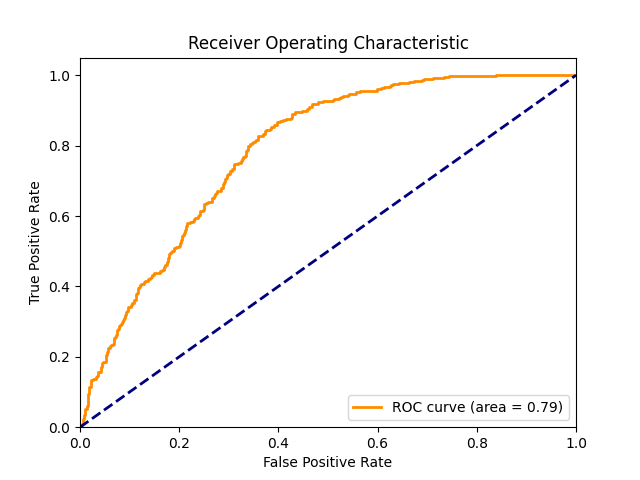
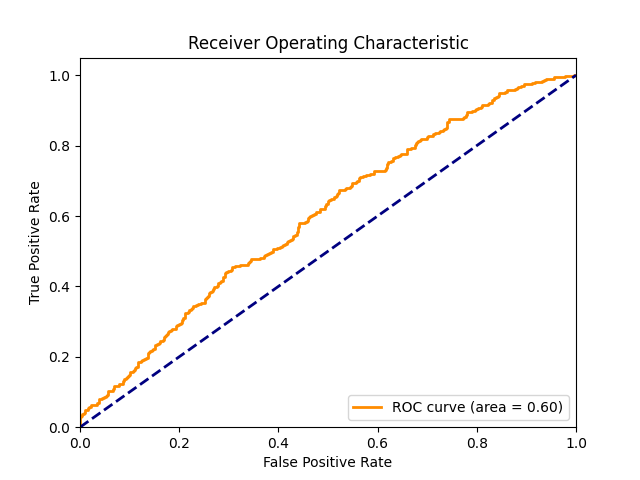
add upsampled siamese ext for testing

diff --git a/src/network.py b/src/network.py
@@ -172,10 +172,9 @@ class complexSiameseExt(nn.Module):
 
         return [output1_pool4, output2_pool4], [output1_pool5, output2_pool5], [output1_pool6, output2_pool6]
 
-class complexSiameseNoPool(nn.Module):
+class SiameseExtUpsampled(nn.Module):
     def __init__(self):
-        super(complexSiameseNoPool, self).__init__()
-        # Define the architecture for the Siamese network
+        super(SiameseExtUpsampled, self).__init__()
         self.conv1 = nn.Conv2d(1, 32, kernel_size=3, padding=1)        
         self.bn1 = nn.BatchNorm2d(32)
         
@@ -186,40 +185,60 @@ class complexSiameseNoPool(nn.Module):
         self.bn3 = nn.BatchNorm2d(128)
         
         self.conv4 = nn.Conv2d(128, 256, kernel_size=3, padding=1)
-        # Same output channels, just to refine the features later on
+        ## same output channels, just to refine the features later on
         self.conv5 = nn.Conv2d(256, 256, kernel_size=3, padding=1)
         self.bn4 = nn.BatchNorm2d(256)
         
         self.conv6 = nn.Conv2d(256, 512, kernel_size=3, padding=1)
         self.conv7 = nn.Conv2d(512, 512, kernel_size=3, padding=1)
+    
         self.bn5 = nn.BatchNorm2d(512)
+        
+        self.conv8 = nn.Conv2d(512, 1024, kernel_size=3, padding=1)
+        self.conv9 = nn.Conv2d(1024, 1024, kernel_size=3, padding=1)
+        self.bn6 = nn.BatchNorm2d(1024)
+        
+        # self.fc1 = nn.Linear(131072, 128)  # Adjust input size based on input dimensions
+        # self.fc1 = nn.Linear(128 * 32 * 32, 128)  # Output size is 128, adjust if needed
 
     def forward(self, input1, input2):
-        # Forward pass through the Siamese network for input1
+        # Forward pass through the Siamese network
         output1_conv1 = F.relu(self.bn1(self.conv1(input1)))
         output1_pool1 = F.max_pool2d(output1_conv1, kernel_size=2, stride=2)
         output1_conv2 = F.relu(self.bn2(self.conv2(output1_pool1)))
-        output1_conv3 = F.relu(self.bn3(self.conv3(output1_conv2)))
-        output1_pool2 = F.max_pool2d(output1_conv3, kernel_size=2, stride=2)
-        output1_conv4 = F.relu(self.conv4(output1_pool2))
+        output1_pool2 = F.max_pool2d(output1_conv2, kernel_size=2, stride=2)
+        output1_conv3 = F.relu(self.bn3(self.conv3(output1_pool2)))
+        output1_pool3 = F.max_pool2d(output1_conv3, kernel_size=2, stride=2)
+        
+        output1_conv4 = F.relu(self.conv4(output1_pool3))
         output1_conv5 = F.relu(self.bn4(self.conv5(output1_conv4)))
-        output1_pool3 = F.max_pool2d(output1_conv5, kernel_size=2, stride=2)
-        output1_conv6 = F.relu(self.conv6(output1_pool3))
-        output1_conv7 = F.relu(self.conv7(output1_conv6))
-
-        # Forward pass through the Siamese network for input2
+        output1_pool4 = F.max_pool2d(output1_conv5, kernel_size=2, stride=2)
+        
+        output1_conv6 = F.relu(self.conv6(output1_pool4))
+        output1_conv7 = F.relu(self.bn5(self.conv7(output1_conv6)))
+        output1_pool5 = F.max_pool2d(output1_conv7, kernel_size=2, stride=2)
+        output1_conv8 = F.relu(self.conv8(output1_pool5))
+        output1_conv9 = F.relu(self.bn6(self.conv9(output1_conv8)))        
+        #######
+        
         output2_conv1 = F.relu(self.bn1(self.conv1(input2)))
         output2_pool1 = F.max_pool2d(output2_conv1, kernel_size=2, stride=2)
         output2_conv2 = F.relu(self.bn2(self.conv2(output2_pool1)))
-        output2_conv3 = F.relu(self.bn3(self.conv3(output2_conv2)))
-        output2_pool2 = F.max_pool2d(output2_conv3, kernel_size=2, stride=2)
-        output2_conv4 = F.relu(self.conv4(output2_pool2))
+        output2_pool2 = F.max_pool2d(output2_conv2, kernel_size=2, stride=2)
+        output2_conv3 = F.relu(self.bn3(self.conv3(output2_pool2)))
+        output2_pool3 = F.max_pool2d(output2_conv3, kernel_size=2, stride=2)
+        
+        output2_conv4 = F.relu(self.conv4(output2_pool3))
         output2_conv5 = F.relu(self.bn4(self.conv5(output2_conv4)))
-        output2_pool3 = F.max_pool2d(output2_conv5, kernel_size=2, stride=2)
-        output2_conv6 = F.relu(self.conv6(output2_pool3))
-        output2_conv7 = F.relu(self.conv7(output2_conv6))
+        output2_pool4 = F.max_pool2d(output2_conv5, kernel_size=2, stride=2)
+    
+        output2_conv6 = F.relu(self.conv6(output2_pool4))
+        output2_conv7 = F.relu(self.bn5(self.conv7(output2_conv6)))
+        output2_pool5 = F.max_pool2d(output2_conv7, kernel_size=2, stride=2)
+        output2_conv8 = F.relu(self.conv8(output2_pool5))
+        output2_conv9 = F.relu(self.bn6(self.conv9(output2_conv8)))
 
-        return [output1_conv3, output2_conv3], [output1_conv5, output2_conv5], [output1_conv7, output2_conv7]
+        return [output1_pool4, output2_pool4], [output1_pool5, output2_pool5], [output1_conv9, output2_conv9]
 
 class l2normalization(nn.Module):
     def __init__(self,scale):

diff --git a/src/main.py b/src/main.py
@@ -1,6 +1,6 @@
 import torch
 import torch.optim as optim
-from network import SimpleSiamese, complexSiamese, complexSiameseNoPool, complexSiameseExt
+from network import SimpleSiamese, SiameseExtUpsampled, complexSiameseExt
 from loss_functions import ConstractiveLoss, ConstractiveThresholdHingeLoss
 from loader import ShiftImage, aertsDataset, remindDataset, balance_dataset
 import os
@@ -312,7 +312,7 @@ if __name__ == "__main__":
                     image_ids=['t1_aligned_stripped'], save_dir=args.slice_dir,
                     skip=args.skip, tumor_sensitivity=0.30, transform=transform, load_slices=args.load_slices)
         subject_images = ConcatDataset([aertsImages, remindImages])
-        model_type = complexSiameseExt()
+        model_type = SiameseExtUpsampled()
     pass
     # balance subject_images based on label
     
